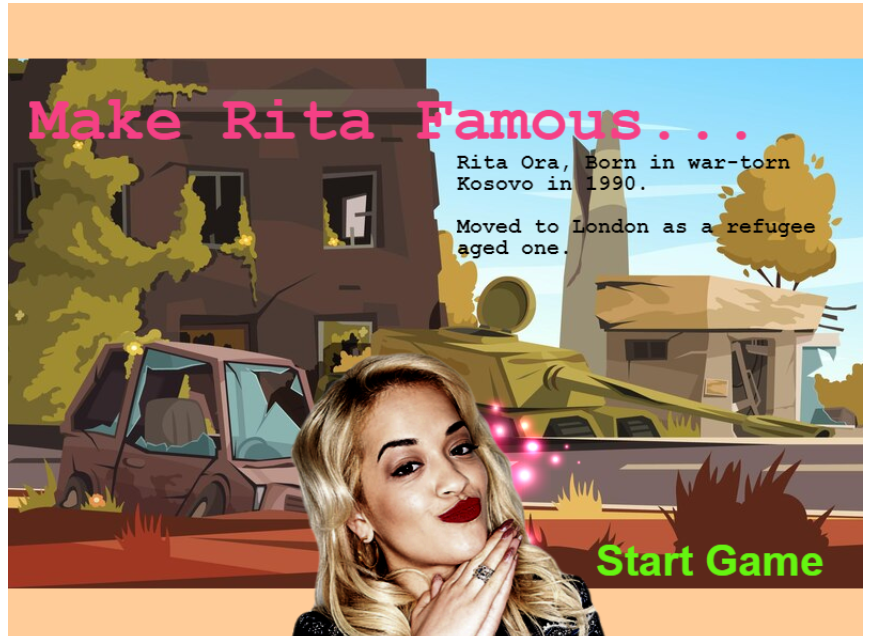
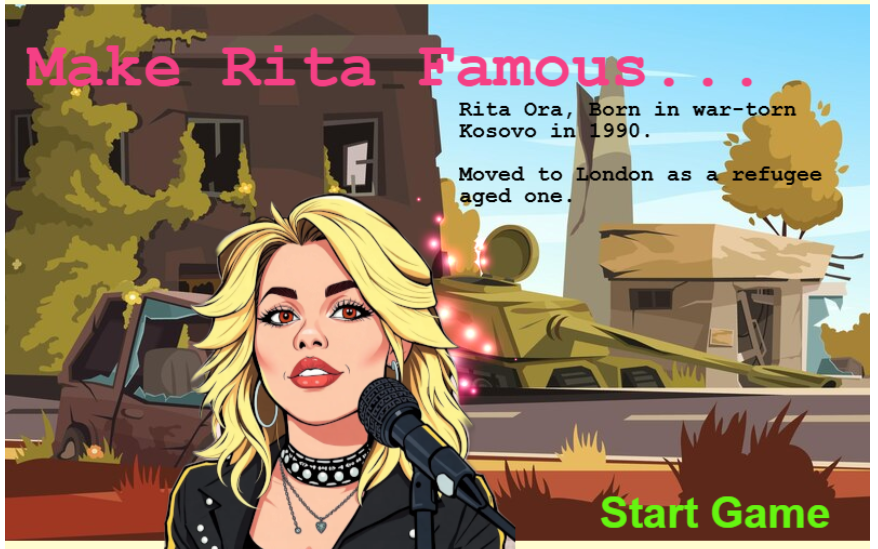
Changed images

diff --git a/script.js b/script.js
@@ -10,6 +10,7 @@ Rita Ora has made a significant impact with her powerful voice, hit songs, and c
 
 Rita Ora is a British singer, songwriter, and actress who gained fame in the early 2010s. Here’s a comprehensive overview of her career and personal life that could be useful for a chatbot:
 
+
 Basic Information:
 Full Name: Rita Sahatçiu Ora
 Date of Birth: November 26, 1990
@@ -42,6 +43,8 @@ Trivia:
 Languages: Besides English, Rita is fluent in Albanian.
 Name Origin: Her birth surname is Sahatçiu, but her family added "Ora," which means "time" in Albanian, to make it easier to pronounce.
 Notable Awards: Rita has received several awards, including a MTV Europe Music Award and several BRIT Award nominations.
+Awards from today in the game: R the person chatting with you just collected for you. It was a game and they put the into the car. This really helped you become famous.
+
 Social Media:
 Instagram: @ritaora
 Twitter: @RitaOra
@@ -61,7 +64,7 @@ NOTE:
 const BACKGROUND_IMAGE_URL = `https://play.rosebud.ai/assets/red-carpet2.jpg?rPPJ`
 
 // This is the URL of the image for your chatbot.
-const CHARACTER_IMAGE_URL = `https://play.rosebud.ai/assets/Rita Ora.head.2.png?cgUo`
+const CHARACTER_IMAGE_URL = `https://play.rosebud.ai/assets/Rita-headphones.png?mnCr`
 
 // Put URLs of all songs you want to be shuffled in this games's playlist.
 const SONG_PLAYLIST_URLS = [
@@ -80,7 +83,7 @@ class Example extends Phaser.Scene {
 //start screen images
   preload() {
     this.load.image('sky', 'https://play.rosebud.ai/assets/kosovo3.jpg?PVxN');
-    this.load.image('logo', 'https://play.rosebud.ai/assets/Rita Ora.head.png?TAz2');
+    this.load.image('logo', 'https://play.rosebud.ai/assets/cartoon-AI-Rita-small.png?TOFS');
     this.load.image('red', 'https://play.rosebud.ai/assets/red.png?dj5S');
   }
 
@@ -130,9 +133,9 @@ class AnotherScene extends Phaser.Scene {
     super('AnotherScene');
   }
 preload() {
-  this.load.image('rita4', 'https://play.rosebud.ai/assets/Rita Ora.png?OrQQ');
+  this.load.image('rita4', 'https://play.rosebud.ai/assets/cartoon-AI-Rita.small.png?GklS');
   this.load.image('award', 'https://play.rosebud.ai/assets/award1.png?2RHY');
-  this.load.image('babyrita', 'https://play.rosebud.ai/assets/baby.rita.png?Yf4L');
+  
 }
 
 
@@ -142,7 +145,7 @@ preload() {
 
     const textLabel2 = this.add.text(20, 200, ' Help Rita become famous by collecting music awards for her. \n\n Drag all of the awards into the car before the timer expires to beat the game!', { font: 'bold 28px Times New Roman', fill: '#02237d', wordWrap: { width: 760, useAdvancedWrap: true } });
 
-    const textLabel3 = this.add.text(20, 410, 'Baby Rita', { font: '20px Courier New', fill: '#02237d', wordWrap: { width: 760, useAdvancedWrap: true } });
+    const textLabel3 = this.add.text(20, 410, '', { font: '20px Courier New', fill: '#02237d', wordWrap: { width: 760, useAdvancedWrap: true } });
     
 
 
@@ -175,15 +178,17 @@ class NewScene extends Phaser.Scene {
   preload() {
     this.load.image('landfill', 'https://play.rosebud.ai/assets/London2.jpg?MEKn');
     this.load.image('junkman', 'https://play.rosebud.ai/assets/award-collector.car.png?9bB7');
-    this.load.image('title_the', 'https://play.rosebud.ai/assets/Rita Ora.head.3.png?tfbE');
+    this.load.image('title_the', 'https://play.rosebud.ai/assets/cartoon-AI-Rita-small.png?TOFS');
     this.load.image('title_junkman', 'https://play.rosebud.ai/assets/game-text.png?5wtI');
     this.load.image('crumpled_paper', 'https://play.rosebud.ai/assets/award1.png?2RHY');
     this.load.image('particle', 'https://play.rosebud.ai/assets/emitter.png?BaQV');
     this.load.audio('metal', 'https://play.rosebud.ai/assets/metal.wav?EZok');
     this.load.audio('boss_junkman', 'https://play.rosebud.ai/assets/boss_junkman.mp3.mp3?6grt');
     this.load.image('newSceneBackground', 'https://play.rosebud.ai/assets/red-carpet2.jpg?rPPJ'); // Replace with your image path
-    this.load.image('rita', 'https://play.rosebud.ai/assets/Rita Ora.head.2.png?cgUo');
+    this.load.image('rita', 'https://play.rosebud.ai/assets/Rita-headphones.png?mnCr');
     this.load.image('award', 'https://play.rosebud.ai/assets/award1.png?2RHY');
+        this.load.image('rita-gown', 'https://play.rosebud.ai/assets/Rita-ball-gown.png?vuUL');
+
     
     
   }
@@ -316,7 +321,7 @@ class NewScene extends Phaser.Scene {
         background.setScale(1); // Example: Scale the image by 2x
 
         // Add "Go to Chat" button
-        const chatButton = this.add.text(480, 90, 'GET A VIP PASS \nCHAT WITH RITA', { font: 'bold 30px Times New Roman', fill: '#f5900c' });
+        const chatButton = this.add.text(400, 90, '*CLICK HERE TO* \n*GET A VIP PASS &* \n*CHAT WITH RITA*', { font: 'bold 32px Times New Roman', fill: '#ebe834' });
         chatButton.setInteractive();
 
         // Handle click event to switch to chat scene
@@ -325,13 +330,13 @@ class NewScene extends Phaser.Scene {
           this.scene.start('ChatScene');
         });
 
-        this.add.image(500, 500, 'rita').setScale(.75);
+        this.add.image(600, 475, 'rita-gown').setScale(.35);
         this.add.image(400, 275, 'award').setScale(.50);
         this.add.image(330, 275, 'award').setScale(.30);
         this.add.image(485, 275, 'award').setScale(.35);
 
-        this.add.text(180, 20, 'Great Work!', { font: 'bold 50px Courier New', fill: '#f50a41' });
-        this.add.text(180, 80, 'Now I am famous!', { font: 'bold 25px Courier New', fill: '#f5930a' });
+        this.add.text(130, 20, 'Great Work!', { font: 'bold 50px Courier New', fill: '#f50a41' });
+        this.add.text(130, 80, 'Now I am famous!', { font: 'bold 25px Courier New', fill: '#f5930a' });
       },
     });
   }

diff --git a/README.md b/README.md
@@ -8,20 +8,11 @@ https://vickysug.github.io/make-rita-famous/ (Note the chat scene is specific to
 
  ## Roesbud Link
  
- https://play.rosebud.ai/games/ba399420-11a0-4410-9728-3f3beee7e01d
-
+https://play.rosebud.ai/projects/339c85ff-2faa-4cfb-8dac-252581047529
 ![alt text](images/start.scrn.shot.png)
 
 ## End mission:
 Help Rita become famous by collecting music awards. After you have collectd them you can help her display them on a red carpet.
-
-## Link to my storyborad on Canva: 
-
-This is in a presentaion style:
-
-https://www.canva.com/design/DAGHL3PF374/St0ZDztcuNN180yY15OiPg/edit?utm_content=DAGHL3PF374&utm_campaign=designshare&utm_medium=link2&utm_source=sharebutton
-
-![alt text](images/canva.png)
 
 ## Project Brief
 
